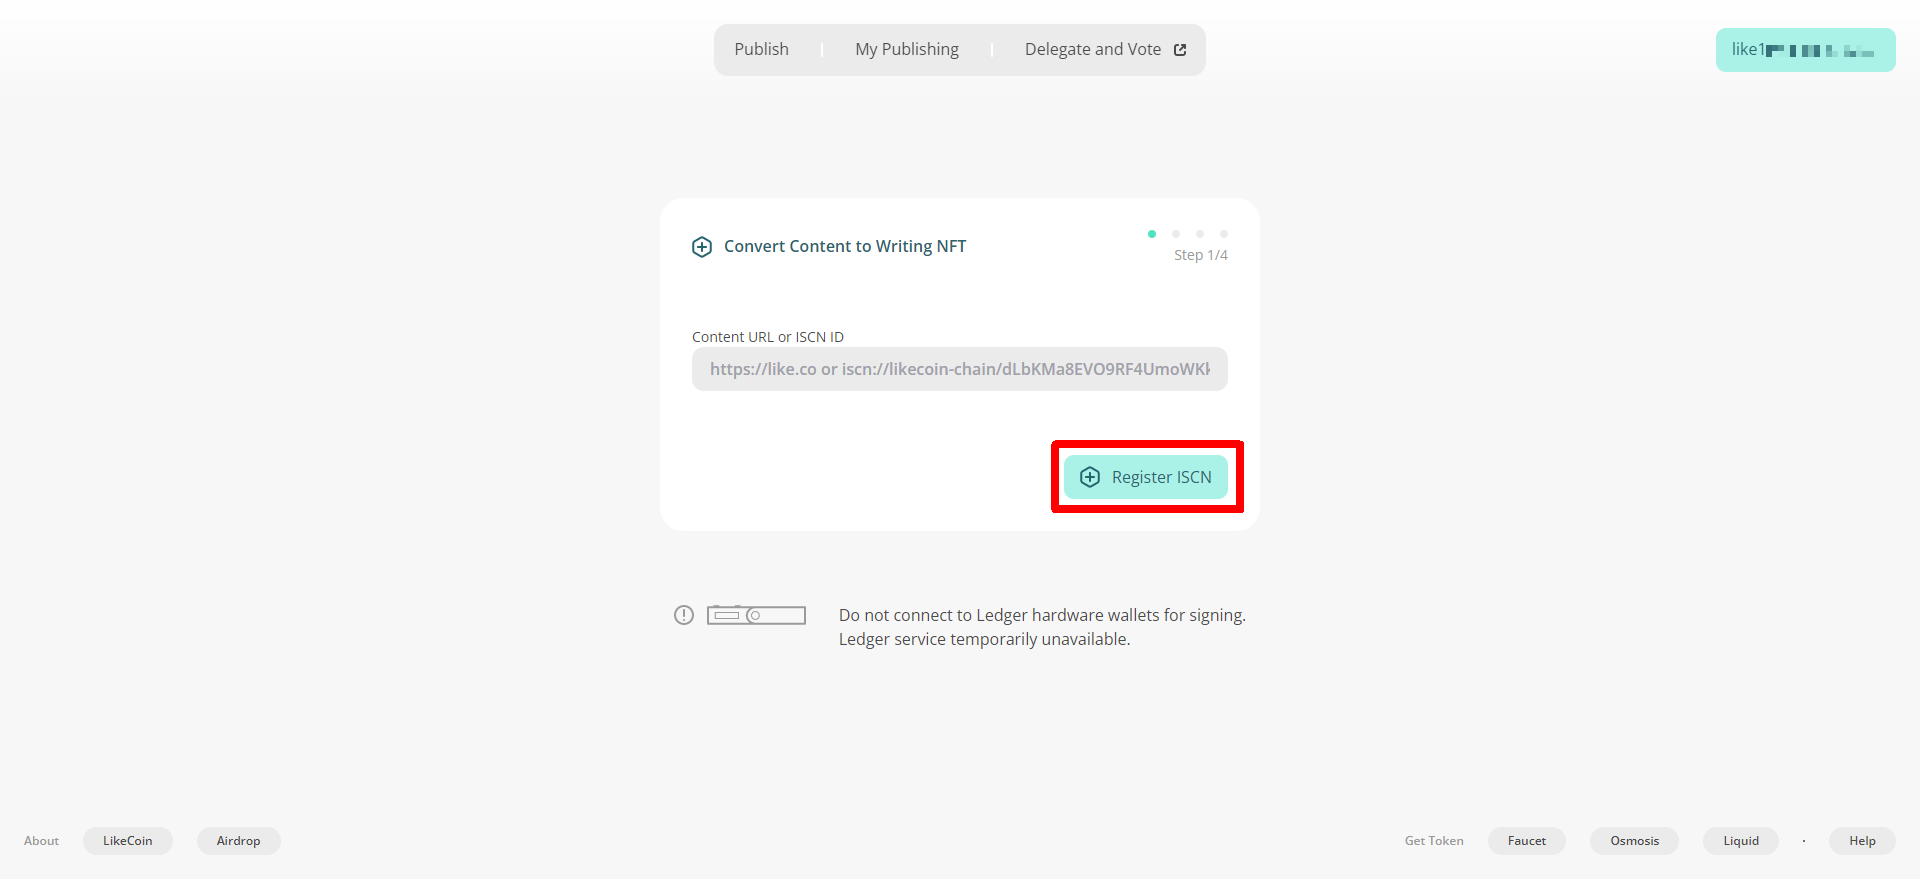
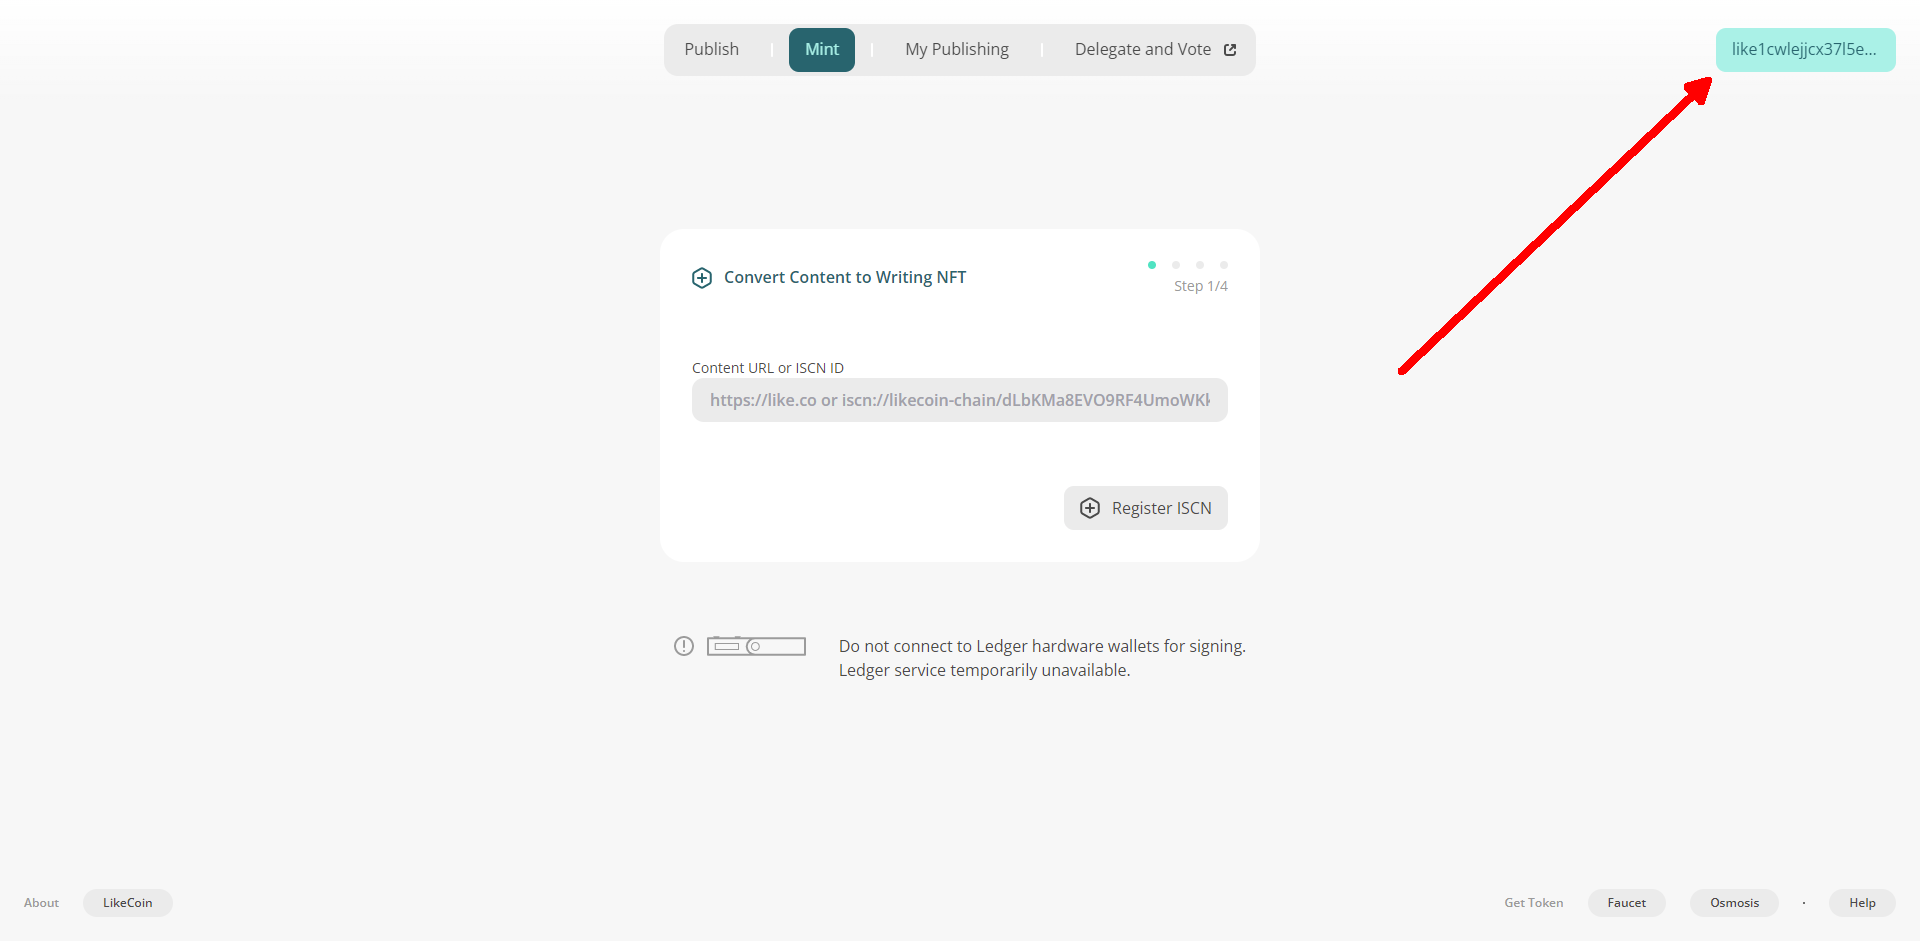
GITBOOK-4366: Mint NFT

diff --git a/general-guides/writing-nft/nft-portal.md b/general-guides/writing-nft/nft-portal.md
@@ -2,7 +2,7 @@
 description: Publish ANY webpage as NFT
 ---
 
-# NFT Portal
+# Mint NFT
 
 ## 📣The Writing NFT is still in the early development stage. We sincerely invite creators to participate in the beta testing and give us feedback to improve the product. If you are interested, please apply to the [Writing NFT Whitelist](https://docs.google.com/forms/u/1/d/e/1FAIpQLSdPkunbI-68k7dzDqNNDX0U8Lr6lg3R2Jsm-RPduUNQ9Om05Q/viewform?usp=send\_form).
 
@@ -14,13 +14,23 @@ description: Publish ANY webpage as NFT
 
 
 
-The NFT Portal covers all writers that cannot use the [WordPress](writing-nft-wordpress-plugin.md) plugin.
+Authors can use [Web3Press](../../user-guide/wordpress.md) to publish articles, register ISCN and publish NFT in one go. If the author does not use WordPress:
 
-**Option 1**: Writers can copy the URL of any webpage, paste it to [**NFT Portal**](https://app.like.co/nft/url) **** website to mint the page as Writing NFT. The Portal will scrape the og graphic, title and content of the webpage and store the information on blockchain/IPFS/Arweave.
+**Option 1**: Writers can copy the URL of any webpage, paste it to [**NFT Portal** website a.k.a. the "Mint" tab of app.like.co](https://app.like.co/nft/url) to mint the page as Writing NFT. The Portal will scrape the og graphic, title and content of the webpage and store the information into distributed storage and registered as an ISCN, then publish the work as NFT
 
-**Option 2**: Register text, PDF, picture, sound... into [ISCN](../decentralized-publishing/app.like.co.md) first, then paste the ISCN ID to [NFT Portal](https://app.like.co/nft/url) to mint as NFT
+**Option 2**: Register text, PDF, picture, sound... into [ISCN](../decentralized-publishing/app.like.co.md) first, then paste the ISCN ID to [NFT Portal](https://app.like.co/nft/url) and publish as NFT
 
-After minting, a user can embed an [NFT Widget](collect-writing-nft/nft-widget.md) into any webpage by iframe, but he/she needs to fill the "referrer parameter'' with the ISCN ID generated by the NFT Portal. Check out the [LikeCoin button](../../user-guide/creator/) for more.
+**Option 3**: Write on the Matters website and select "Register ISCN", then select the ISCN on the ["My Publishing" tab of app.like.co](https://app.like.co/works) to publish as NFT
+
+**Option 4**: Publish NFT on [Liker.Social](https://liker.social/)
+
+**Option 5**: Publish NFT [on illustBuy](https://illustbuy.com/)
+
+**Option 6**: Batch send NFT to more than one wallet
+
+Will talk about the options one by one.
+
+After publishing the NFT, users can embed an NFT Widget into any webpage by iframe, but they need to fill the "referrer parameter'' with the ISCN ID generated by the NFT Portal. Check out the LikeCoin button for more.
 
 ## Login to NFT Portal&#x20;
 
@@ -40,7 +50,7 @@ A QR Code will appear after clicking "Liker ID".
 
 <figure><img src="../../.gitbook/assets/NFT Portal 1b.png" alt=""><figcaption></figcaption></figure>
 
-On the [Liker Land app](../../user-guide/liker-land/download.md), click the QRCode icon to bring up the camera, and scan the QR Code.
+On the [Liker Land app](../../user-guide/liker-land/download.md), click the QR Code icon to bring up the camera, and scan the QR Code.
 
 <figure><img src="../../.gitbook/assets/NFT Portal 1c-en.png" alt=""><figcaption></figcaption></figure>
 
@@ -52,11 +62,11 @@ After successful login, your wallet address will be displayed on the top right c
 
 <figure><img src="../../.gitbook/assets/NFT Portal 1e.png" alt=""><figcaption></figcaption></figure>
 
-## Publish Writing NFT with Article URL
+## Publish Writing NFT with an article URL
 
 ### Step 1/4: Register ISCN
 
-If the article is not registered with ISCN, please directly enter the article URL into the blank space and click "Register ISCN".
+If the article is not registered with an ISCN, please directly enter the article URL into the blank space and click "Register ISCN".
 
 {% hint style="info" %}
 Please note if the URL is directly registered with ISCN in this way when publishing Writing NFT, the system will automatically grab the article title and content as metadata.
@@ -101,6 +111,8 @@ Click ":pencil2:" at the title and modify it directly.
 Click ":pencil2:" at the description to change the description of Writing NFT.
 
 <figure><img src="../../.gitbook/assets/NFT Portal 5-4.png" alt=""><figcaption></figcaption></figure>
+
+Click "Next" to continue.
 
 ### Step 3/4: Add Creator message
 
@@ -152,15 +164,9 @@ The steps are exactly the same as for Keplr users, just click "Approve" when sig
 
 If your article is registered with ISCN, you can also use the **** [**NFT Portal**](https://app.like.co/nft/url) **** to publish Writing NFT.
 
-### Register ISCN for Matters articles
-
-Taking Matters as an example, users can choose to register ISCN before publishing.
-
-<figure><img src="../../.gitbook/assets/NFT Portal ISCN 1.png" alt=""><figcaption></figcaption></figure>
-
 ### Method 1: Publish Writing NFT directly from ISCN
 
-After the article is published, go to "[My Publishing](https://app.like.co/works)" of [app.like.co](https://app.like.co/) to find the ISCN of the article, and click "Mint NFTs" on the top right corner to directly mint the ISCN as Writing NFT, the steps are exactly the same as [Publish Writing NFT with Article URL Step 2-2/4](nft-portal.md#publish-writing-nft-with-article-url).
+After the article is published an regsitered with ISCN, go to "[My Publishing](https://app.like.co/works)" of [app.like.co](https://app.like.co/) to find the ISCN of the article, and click "Mint NFT" on the top right corner to directly mint the ISCN as Writing NFT, the steps are exactly the same as [Publish Writing NFT with Article URL Step 2-2/4](nft-portal.md#step-2-4-preview-nft).
 
 <figure><img src="../../.gitbook/assets/NFT Portal ISCN 4.png" alt=""><figcaption></figcaption></figure>
 
@@ -170,17 +176,41 @@ Go to "[My Publishing](https://app.like.co/works)" at [app.like.co](https://app.
 
 <figure><img src="../../.gitbook/assets/NFT Portal ISCN 2.png" alt=""><figcaption></figcaption></figure>
 
-Enter the ISCN ID in the [NFT Portal](https://app.like.co/nft/url) and click "Register ISCN". For the steps remaining, please refer to [Publish Writing NFT with Article URL Step 2-2/4](nft-portal.md#publish-writing-nft-with-article-url).
+Enter the ISCN ID in the [NFT Portal](https://app.like.co/nft/url) and click "Register ISCN". For the steps remaining, please refer to [Publish Writing NFT with Article URL Step 2-2/4](nft-portal.md#step-2-4-preview-nft).
 
 <figure><img src="../../.gitbook/assets/NFT Portal ISCN 3.png" alt=""><figcaption></figcaption></figure>
 
-## Creator’s Introduction
+## Publish sound as Writing NFT
 
-Set your own introduction together with profile picture and display name so your supporters can know you better. ( Need to register a Liker ID )
+#### Tutorial
 
-{% content-ref url="../../user-guide/liker-id/edit-avatar-displayname.md" %}
-[edit-avatar-displayname.md](../../user-guide/liker-id/edit-avatar-displayname.md)
-{% endcontent-ref %}
+{% embed url="https://www.youtube.com/watch?v=X0uLaPOkucA" %}
+
+## Register ISCN for Matters articles
+
+Users can choose to register ISCN before publishing.
+
+<figure><img src="../../.gitbook/assets/NFT Portal ISCN 1.png" alt=""><figcaption></figcaption></figure>
+
+Then follow [Method 1: Publish Writing NFT directly from ISCN](nft-portal.md#method-1-publish-writing-nft-directly-from-iscn).
+
+## Publish Writing NFT on Liker.Social
+
+Click "Mint" on the [Liker.Social](https://liker.social/) toot to publish the post as NFT.
+
+<figure><img src="../../.gitbook/assets/Lker.Social.webp" alt=""><figcaption></figcaption></figure>
+
+#### Tutorial
+
+{% embed url="https://www.youtube.com/watch?v=ElBZ4ZRc8io" %}
+
+## Publish Writing NFT on illustBuy
+
+Publishing NFTs on [illustBuy](https://illustbuy.com/) is just as easy.
+
+#### Tutorial
+
+{% embed url="https://www.youtube.com/watch?v=6EGFXDdb100" %}
 
 ## Batch send NFT to supporters
 
@@ -194,4 +224,16 @@ Set your own introduction together with profile picture and display name so your
 
 **Step 5**: Find out the NFT Class ID on the Writing NFT that will be distributed to supporters.
 
-**Step 6**: Enter the NFT Class ID into the Send NFTs tool, and enter the supporters’ wallet addresses into Recipient Address list and the Transfer message, then press "Send" and sign in Keplr, and the NFT will be batch sent to supporters.\
+**Step 6**: Enter the NFT Class ID into the Send NFTs tool, and enter the supporters’ wallet addresses into Recipient Address list and the Transfer message, then press "Send" and sign in Keplr, and the NFT will be batch sent to supporters.
+
+#### Tutorial
+
+{% embed url="https://www.youtube.com/watch?v=APw46UIzJLM" %}
+
+## Creator’s Introduction
+
+Set your own introduction together with profile picture and display name so your supporters can know you better. ( Need to register a Liker ID ).
+
+{% content-ref url="../../user-guide/liker-id/edit-avatar-displayname.md" %}
+[edit-avatar-displayname.md](../../user-guide/liker-id/edit-avatar-displayname.md)
+{% endcontent-ref %}

diff --git a/general-guides/writing-nft/collect-writing-nft/nft-widget.md b/general-guides/writing-nft/collect-writing-nft/nft-widget.md
@@ -10,7 +10,7 @@ Unlike popular NFT marketplaces such as Opensea that converge creators and buyer
 
 Let the readers collect Writing NFT as they read, the collecting action is as easy as giving a like. An **“NFT Widget**” will be embedded at the bottom of the article. It works like a vending machine, showing the current price of this Writing NFT, and let readers to collect by a click if the price is right.
 
-Writers can install the [Writing NFT plug-in](../writing-nft-wordpress-plugin.md) to publish posts as NFTs if the website is based on WordPress.The plug-in embed NFT Widget at the bottom of each post for readers to collect.
+Writers can install the [Writing NFT plug-in](broken-reference) to publish posts as NFTs if the website is based on WordPress.The plug-in embed NFT Widget at the bottom of each post for readers to collect.
 
 [Writers not using WordPress](../nft-portal.md) can also embed NFT Widget into any webpage by iframe, but need to fill the “referrer” parameter with the ISCN ID generated by the [NFT Portal](../nft-portal.md).
 

diff --git a/SUMMARY.md b/SUMMARY.md
@@ -99,8 +99,7 @@
   * [Dynamic Pricing](general-guides/writing-nft/dynamic-pricing.md)
   * [My Dashboard](general-guides/writing-nft/dashboard.md)
   * [Transfer Writing NFT](general-guides/writing-nft/transfer-writing-nft.md)
-  * [Writing NFT WordPress Plugin](general-guides/writing-nft/writing-nft-wordpress-plugin.md)
-  * [NFT Portal](general-guides/writing-nft/nft-portal.md)
+  * [Mint NFT](general-guides/writing-nft/nft-portal.md)
 * [Decentralized Publishing](general-guides/decentralized-publishing/README.md)
   * [What is ISCN](general-guides/decentralized-publishing/what-is-iscn.md)
   * [What is the relationship between ISCN and IPFS?](general-guides/decentralized-publishing/iscn-ipfs-relationship.md)
